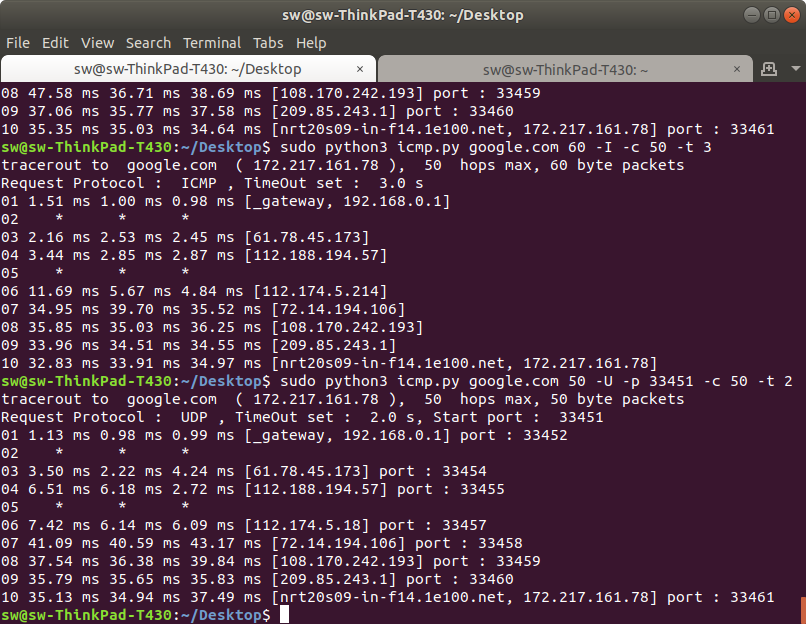
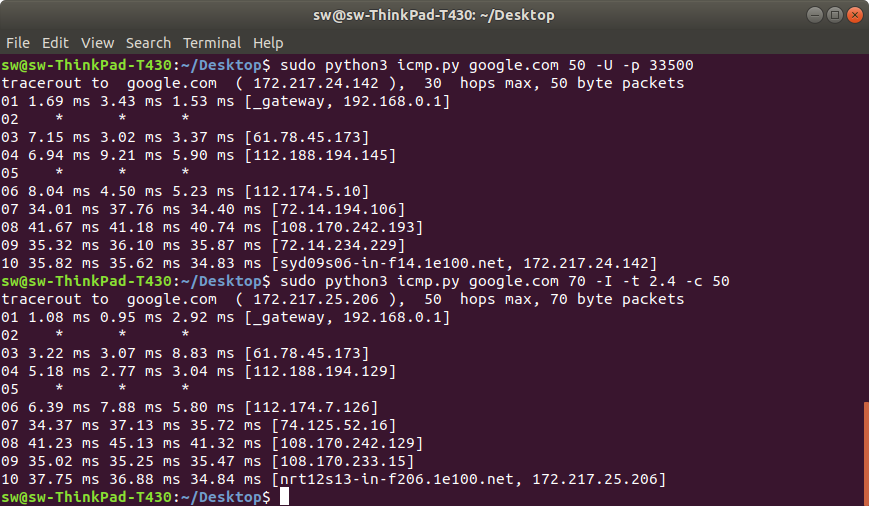
Modify TP_End

diff --git a/TermProject_End/icmp.py b/TermProject_End/icmp.py
@@ -9,7 +9,7 @@ TimeOut, TTL = 1 , 0
 TTLMax, MyId, data = 30, random.randrange(3000,5000), '' 
 ip_length, icmp_length, udp_length, _length = 20, 8, 8, 0
 source_ip, dest_ip, protocol = 0, 0, 0
-port, beforetime = 33500, 0
+port, beforetime = random.randrange(33500,33600), 0
 
 # Make Checksum
 def make_checksum(header) :
@@ -201,15 +201,9 @@ def Traceroute (mySocket):
 
         if s1 is not None and type(s1) == type('str'):
             if type(sourceAdress) == type((0,)) :               
-                if protocol == socket.IPPROTO_UDP :
-                    sys.stdout.write("[%s, %s] port : %d" % (s1, s2, port))
-                else :
-                    sys.stdout.write("[%s, %s]" % (s1, s2))   
+                sys.stdout.write("[%s, %s]" % (s1, s2))   
             else:
-                if protocol == socket.IPPROTO_UDP :
-                    sys.stdout.write("[%s] port : %d" % (s1, port))
-                else :
-                    sys.stdout.write("[%s]" % (s1))
+                sys.stdout.write("[%s]" % (s1))
                 
         sys.stdout.write("\n")
         if reply :    
@@ -225,14 +219,14 @@ if __name__ == '__main__' :
     parser.add_argument('-t', type=float, required=False, metavar='recv timeout', help='timeout')
     parser.add_argument('-I', help='ICMP',action='store_true')  
     parser.add_argument('-U', help='UDP',action="store_true")
-    parser.add_argument('-p', type=int, required=False, metavar='port', help='port', default=33500)
+    parser.add_argument('-p', type=int, required=False, metavar='port', help='port', default=random.randrange(33500,33600))
     args = parser.parse_args()
 
     source_ip = '0.0.0.0' 
     dest_ip = socket.gethostbyname(args.domain)
     protocol = socket.IPPROTO_ICMP # protocol default
     _length = icmp_length # default
-    protoname = "ICMP"
+
     try:
         mySocket = socket.socket(socket.AF_INET, socket.SOCK_RAW, socket.IPPROTO_RAW)
 
@@ -261,9 +255,5 @@ if __name__ == '__main__' :
     print("tracerout to ", args.domain, " (",dest_ip,"), ", TTLMax, " hops max,", args.length,
      "byte packets" )
 
-    print("Request Protocol : ",protoname,", TimeOut set : " ,TimeOut,"s",end='')
-    if protocol == socket.IPPROTO_UDP :
-        print(", Start port : ", port)
-    else :
-        print()
+
     Traceroute(mySocket)
